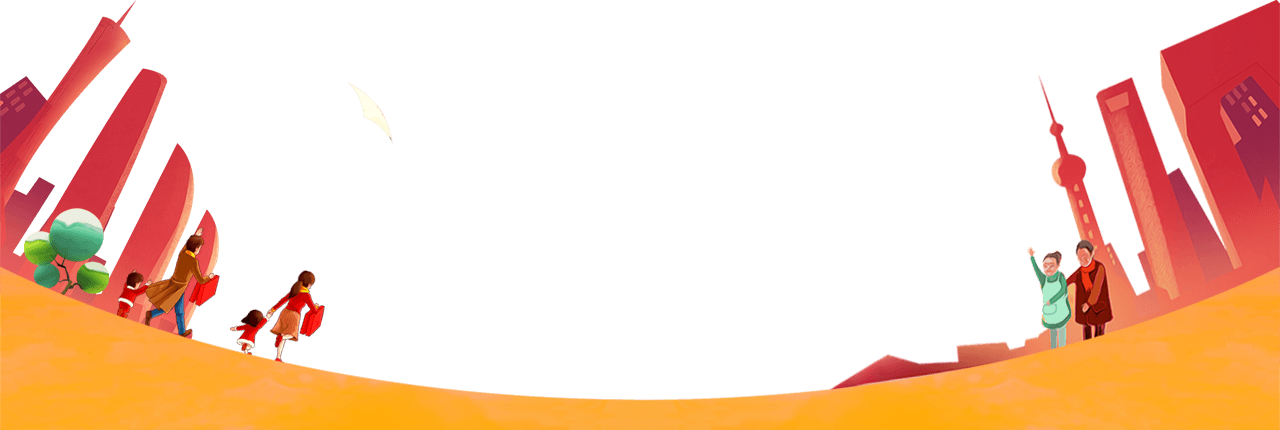
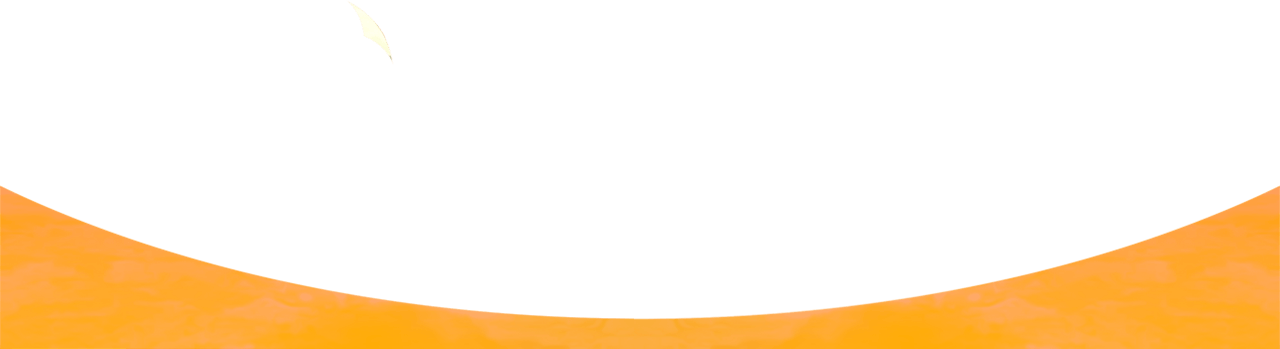
feat: 登录页样式

diff --git a/src/Containers/Permission/Login/index.js b/src/Containers/Permission/Login/index.js
@@ -105,6 +105,12 @@ class Login extends Component {
 		}else{
 			this.loginBg.style.backgroundSize = "100% auto";
 		}
+		if(1200>width && width>1000){
+			console.log("---------", width)
+			var poor = 1200 - width;
+			this.loginParents.style.width = 300 - poor / 4 + "px";
+			this.loginSons.style.width = 300 - poor/4 + "px";
+		}
 	}
 		//屏蔽tab
 	HandleEnterKey=(evt)=>{
@@ -574,10 +580,20 @@ class Login extends Component {
 						<div className="login-bg" ref = {(ref)=>{
 							this.loginBg = ref;
 						}}>
-								<img className="login-earth" src={loginEarth} />
-								{/* <img className="login-parents" src={loginParents} />
-								<img className="login-sons" src={loginSons} /> */}
-								<img className="login-fireworks" src={loginFireworks}/>
+							<img className="login-earth" src={loginEarth} />
+							<img className="login-parents" 
+								ref={(ref) => {
+									this.loginParents = ref;
+								}} 
+								src={loginParents} 
+							/>
+							<img className="login-sons" 
+								ref={(ref) => {
+									this.loginSons = ref;
+								}} 
+								src={loginSons} 
+							/>
+							<img className="login-fireworks" src={loginFireworks}/>
 						</div>
           {<div className="content">
             <div className="content-wrap">

diff --git a/src/Containers/Permission/Login/index.less b/src/Containers/Permission/Login/index.less
@@ -13,17 +13,18 @@
       position: absolute;
       bottom: 0px;
       width: 100%;
-      // height: 200px;
+      height: 200px;
+      z-index: 10;
     }
     .login-parents{
       position: absolute;
-      bottom: 45px;
+      bottom: 30px;
       right: 0px;
       width: 300px;
     }
     .login-sons{
       position: absolute;
-      bottom: 40px;
+      bottom: 35px;
       left: 0px;
       width: 300px;
     }
@@ -92,7 +93,7 @@
         	background: #fff;
         	filter: progid:DXImageTransform.Microsoft.Shadow(color=#3d5d6e,
         		direction=120, strength=4 ); /*ie*/
-        	box-shadow: 2px 2px 20px #3d5d6e; /*opera或ie9*/
+        	box-shadow: 2px 2px 20px #ac465a; /*opera或ie9*/
         	border-radius: 4px; /* W3C syntax */
           .logos {
           	width: 56px;
